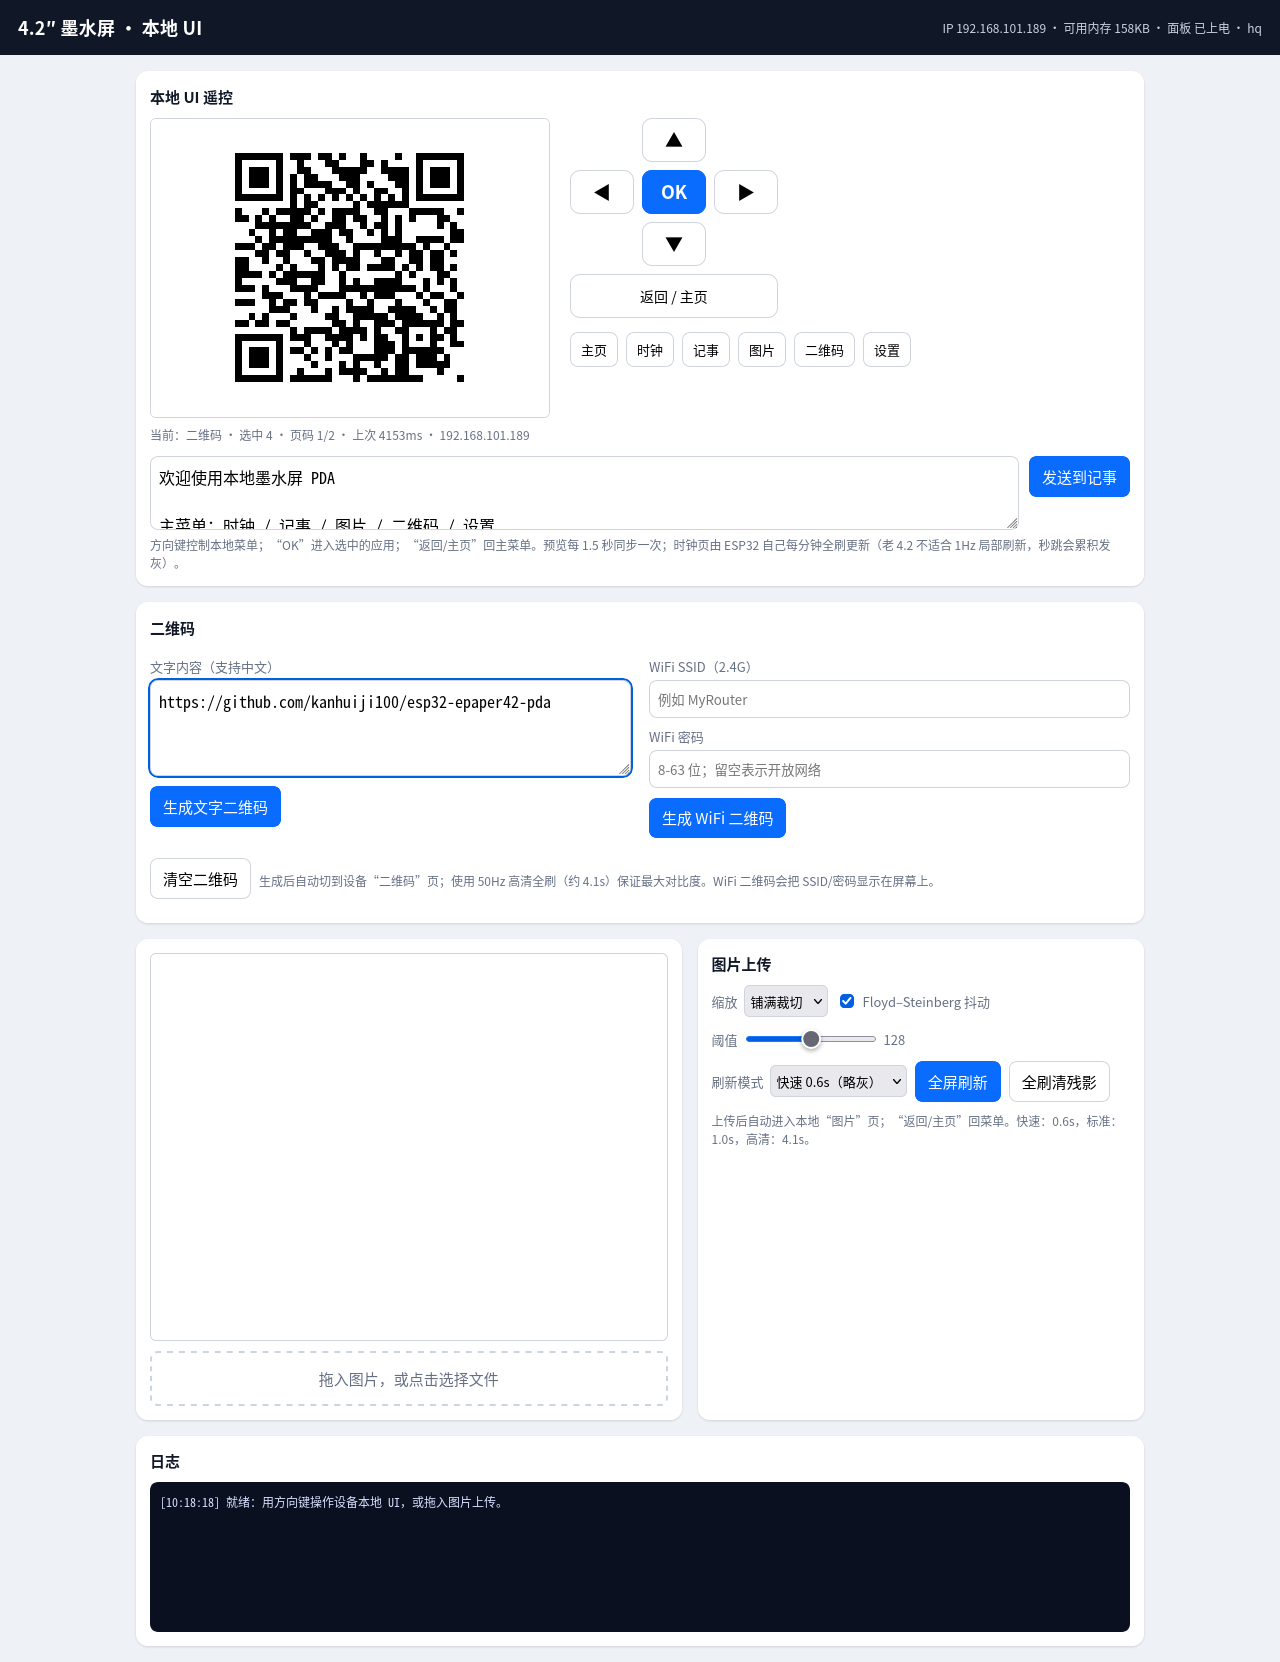
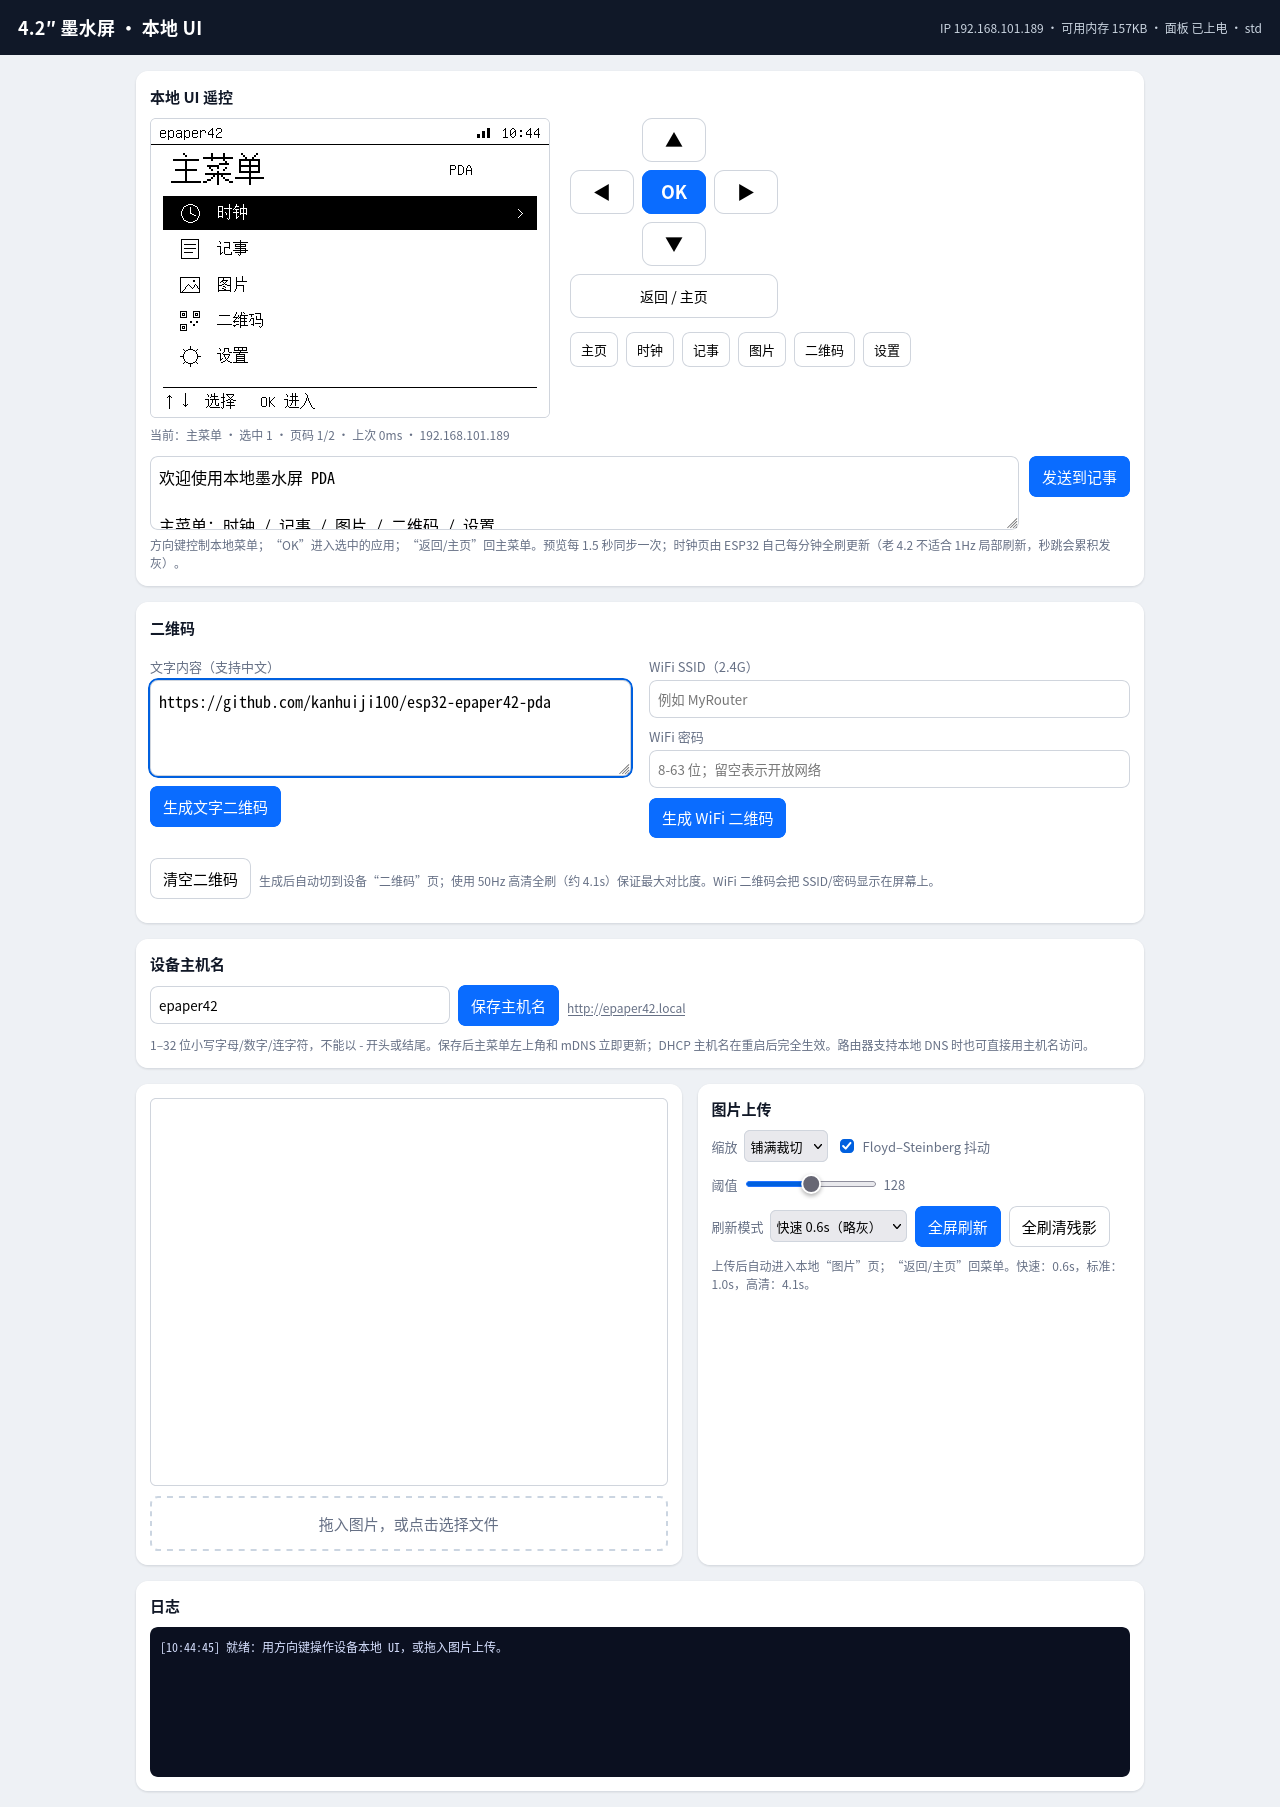
Add customizable hostname with mDNS and Home/Settings display

diff --git a/firmware/epaper42_web/webpage.h b/firmware/epaper42_web/webpage.h
@@ -31,7 +31,8 @@ main{max-width:1040px;margin:0 auto;padding:16px;display:grid;grid-template-colu
 .apps button{padding:7px 10px;font-size:13px}
 .note-row{display:grid;grid-template-columns:1fr auto;gap:10px;margin-top:12px;align-items:start}
 #noteText{width:100%;height:74px;padding:8px;border:1px solid var(--line);border-radius:8px;font:14px/1.5 inherit;resize:vertical}
-.qr{grid-column:1/-1}
+.qr,.host{grid-column:1/-1}
+.host input{padding:8px;border:1px solid var(--line);border-radius:8px;font:14px/1.5 inherit;min-width:220px}
 .qr-grid{display:grid;grid-template-columns:1fr 1fr;gap:18px}
 .qr-grid label{display:block;margin:8px 0 4px}
 .qr-grid textarea,.qr-grid input{width:100%;padding:8px;border:1px solid var(--line);border-radius:8px;font:14px/1.5 inherit}
@@ -115,6 +116,16 @@ button:disabled{opacity:.45;cursor:default}
     </div>
   </section>
 
+  <section class="card host">
+    <h2>设备主机名</h2>
+    <div class="row">
+      <input id="hostName" maxlength="32" placeholder="epaper42">
+      <button id="btnHost" class="primary">保存主机名</button>
+      <a id="hostLink" class="hint" href="http://epaper42.local" target="_blank" rel="noopener">http://epaper42.local</a>
+    </div>
+    <p class="hint">1–32 位小写字母/数字/连字符，不能以 - 开头或结尾。保存后主菜单左上角和 mDNS 立即更新；DHCP 主机名在重启后完全生效。路由器支持本地 DNS 时也可直接用主机名访问。</p>
+  </section>
+
   <section class="card">
     <canvas id="preview" width="400" height="300"></canvas>
     <div id="drop">拖入图片，或点击选择文件<input id="file" type="file" accept="image/*" hidden></div>
@@ -190,7 +201,7 @@ const remote=$('remoteScreen'), rctx=remote.getContext('2d');
 let remoteBusy=false, remoteSeq=0;
 function setRemoteBusy(b){
   remoteBusy=b;
-  document.querySelectorAll('.pad button,.apps button,#btnQrText,#btnQrWifi,#btnQrClear').forEach(x=>{x.disabled=b;});
+  document.querySelectorAll('.pad button,.apps button,#btnQrText,#btnQrWifi,#btnQrClear,#btnHost').forEach(x=>{x.disabled=b;});
 }
 function drawRemote(buf){
   const out=rctx.createImageData(W,H);
@@ -276,6 +287,34 @@ $('btnQrWifi').addEventListener('click',()=>{
   qrAction('/api/qr?type=wifi&ssid='+encodeURIComponent(s)+'&pass='+encodeURIComponent(p),null,'生成 WiFi 二维码');
 });
 $('btnQrClear').addEventListener('click',()=>qrAction('/api/qr?type=clear',null,'清空二维码'));
+
+function updateHostUi(h){
+  $('hostName').value=h;
+  $('hostLink').textContent='http://'+h+'.local';
+  $('hostLink').href='http://'+h+'.local';
+}
+async function loadHost(){
+  try{
+    const r=await fetch('/api/host',{cache:'no-store'});
+    const j=await r.json();
+    if(j.host) updateHostUi(j.host);
+  }catch(e){}
+}
+$('btnHost').addEventListener('click',async()=>{
+  if(remoteBusy) return;
+  const name=$('hostName').value.trim().toLowerCase();
+  if(!/^[a-z0-9](?:[a-z0-9-]{0,30}[a-z0-9])?$/.test(name)){
+    log('主机名格式不对：1–32 位 a-z/0-9/-，首尾不能是 -','warn'); return;
+  }
+  setRemoteBusy(true);
+  try{
+    const j=await api('/api/host?name='+encodeURIComponent(name));
+    updateHostUi(j.host);
+    log('主机名已保存：'+j.host+' · '+j.mdns,'ok');
+    await refreshRemote(true);
+  }catch(e){ log('主机名保存失败：'+e.message,'err'); }
+  finally{ setRemoteBusy(false); }
+});
 
 async function loadNote(){
   try{
@@ -407,6 +446,7 @@ async function poll(){
 log('就绪：用方向键操作设备本地 UI，或拖入图片上传。');
 refreshRemote(true);
 loadNote();
+loadHost();
 setInterval(()=>refreshRemote(false),1500);
 poll();
 </script>

diff --git a/firmware/epaper42_web/ui_impl.h b/firmware/epaper42_web/ui_impl.h
@@ -23,6 +23,7 @@ App app = App::HOME;
 int menuSel = 0;
 int notePage = 0;
 String note;
+String hostLabel = "epaper42";
 bool hasImage = false;
 uint8_t imageFb[IMGSZ];
 String qrPayload, qrType;
@@ -315,7 +316,7 @@ const char* MENU[] = {"时钟", "记事", "图片", "二维码", "设置"};
 
 void drawHome() {
   fillRect(0, 0, W, H, PAPER);
-  drawStatus("PDA");
+  drawStatus(hostLabel.c_str());
   drawText(20, 34, "主菜单", 2, INK);
   drawText(300, 42, "PDA", 1, INK);
   const int top = 78, ih = 36;
@@ -403,6 +404,7 @@ void drawSettingsApp() {
   line(String("WiFi  ") + (WiFi.status() == WL_CONNECTED ? WiFi.SSID() : String("未连接")));
   line(String("IP    ") + WiFi.localIP().toString());
   line(String("RSSI  ") + String(WiFi.RSSI()) + " dBm");
+  line(String("HOST  ") + hostLabel);
   line(String("HEAP  ") + String(ESP.getFreeHeap() / 1024) + " KB");
   line(String("MODE  ") + panel42::modeName());
   line(String("FLASH ") + String(ESP.getFlashChipSize() / 1024 / 1024) + " MB");
@@ -565,6 +567,7 @@ String stateJson() {
   s += ",\"qr\":"; s += (qrValid ? 1 : 0);
   s += ",\"qrType\":\""; s += qrType; s += "\"";
   s += ",\"qrModules\":"; s += qrSize;
+  s += ",\"host\":\""; s += hostLabel; s += "\"";
   s += ",\"ms\":"; s += (unsigned long)lastT.total;
   s += ",\"refresh\":"; s += (unsigned long)lastT.refresh;
   s += ",\"ip\":\""; s += WiFi.localIP().toString(); s += "\"";
@@ -642,6 +645,14 @@ panel42::Timings setNote(const String& text) {
   notePage = 0;
   renderAndCommit(true);
   return lastT;
+}
+
+void setHostnameLabel(const String& name, bool redraw) {
+  if (name.length() == 0) return;
+  hostLabel = name;
+  if (redraw && (app == App::HOME || app == App::SETTINGS) && panel42::isPowered()) {
+    renderAndCommit(true);
+  }
 }
 
 void setImage(const uint8_t* img, bool alreadyOnScreen) {

diff --git a/firmware/epaper42_web/serial_console.h b/firmware/epaper42_web/serial_console.h
@@ -130,6 +130,8 @@ static void printHelp() {
   Serial.println("  qr <text>              generate a text QR (UTF-8) and show it");
   Serial.println("  qr wifi <ssid> [pass]  Wi-Fi QR; omit pass for hidden prompt");
   Serial.println("  qr clear               clear QR / show placeholder");
+  Serial.println("  host                   show hostname / mDNS URL");
+  Serial.println("  host <name>            set hostname (a-z 0-9 -, 1-32 chars)");
   Serial.println("  wifi                   current Wi-Fi state");
   Serial.println("  wifi scan              scan visible networks");
   Serial.println("  wifi set               interactive provisioning (password hidden)");
@@ -280,6 +282,23 @@ static void handleLine(const String& raw) {
     lastActivity = millis();
     Serial.println("note saved");
     printStatus();
+    return;
+  }
+
+  if (cmd == "host" || cmd == "hostname") {
+    if (argc == 1) {
+      Serial.printf("host: %s  http://%s.local\n", gHostname.c_str(), gHostname.c_str());
+      return;
+    }
+    String name = args[1];
+    if (name == "set" && argc >= 3) name = args[2];
+    if (hostnameSet(name)) {
+      lastActivity = millis();
+      Serial.printf("host: %s  http://%s.local\n", gHostname.c_str(), gHostname.c_str());
+      Serial.println("DHCP hostname fully applies after reboot; mDNS is immediate.");
+    } else {
+      Serial.println("host: invalid; use 1-32 chars a-z 0-9 -, no leading/trailing -");
+    }
     return;
   }
 

diff --git a/firmware/epaper42_web/ui.h b/firmware/epaper42_web/ui.h
@@ -16,6 +16,7 @@ bool setQr(const String& payload, const String& type);
 bool setWifiQr(const String& ssid, const String& pass);
 void clearQr();
 String qrSummary();
+void setHostnameLabel(const String& name, bool redraw);
 void onClear();
 
 const uint8_t* screen();

diff --git a/docs/API.md b/docs/API.md
@@ -6,7 +6,7 @@ console at `/` and a small JSON/binary API. All responses include
 request.
 
 Base URL: `http://<device-ip>/` (the serial log prints the DHCP IP; mDNS is
-`epaper42.local` when available).
+`http://<hostname>.local`, default `epaper42.local`).
 
 For USB serial provisioning and console commands, see
 [SERIAL_CONSOLE.md](SERIAL_CONSOLE.md).
@@ -25,7 +25,9 @@ Partial images use `(w / 8) × h` bytes; `x` and `w` must be multiples of 8.
 | Method | Path | Body | Result |
 |---|---|---|---|
 | GET | `/` | — | remote console HTML |
-| GET | `/api/status` | — | device status JSON |
+| GET | `/api/status` | — | device status JSON (includes hostname) |
+| GET | `/api/host` | — | current hostname + mDNS URL |
+| POST | `/api/host?name=...` | — | set hostname; restarts mDNS, returns host/URL |
 | GET | `/api/screen` | — | current framebuffer, 15,000 bytes |
 | GET | `/api/ui` | — | local-UI state JSON |
 | GET | `/api/qr` | — | QR state (same fields as `/api/ui`) |
@@ -45,10 +47,32 @@ Partial images use `(w / 8) × h` bytes; `x` and `w` must be multiples of 8.
 ### `GET /api/status`
 
 ```json
-{"ok":1,"ip":"192.168.1.50","heap":180000,"powered":1,"mode":"part"}
+{"ok":1,"ip":"192.168.1.50","host":"epaper42","heap":180000,"powered":1,"mode":"part"}
 ```
 
 `mode` is `none|std|hq|part`.
+
+### Hostname
+
+```bash
+# read
+curl http://<ip>/api/host
+
+# set (lowercased; 1-32 chars a-z/0-9/-, no leading/trailing -)
+curl -X POST 'http://<ip>/api/host?name=pda42'
+```
+
+Response:
+
+```json
+{"ok":1,"host":"pda42","mdns":"http://pda42.local"}
+```
+
+The mDNS responder is restarted immediately, so `http://pda42.local` works as
+soon as the request returns. `WiFi.setHostname()` is also updated; the DHCP
+hostname is fully applied after the next reboot/reconnect. The Home status bar
+and Settings screen are redrawn when they are visible. Invalid names return HTTP
+400 and leave the current hostname unchanged.
 
 ### `GET /api/ui`
 
@@ -60,6 +84,10 @@ Partial images use `(w / 8) × h` bytes; `x` and `w` must be multiples of 8.
   "page": 0,
   "pages": 2,
   "hasImage": 0,
+  "qr": 0,
+  "qrType": "",
+  "qrModules": 0,
+  "host": "epaper42",
   "ms": 984,
   "refresh": 959,
   "ip": "192.168.1.50",

diff --git a/docs/LOCAL_UI.md b/docs/LOCAL_UI.md
@@ -19,6 +19,7 @@ rendered in the browser (the browser only mirrors the device framebuffer).
 ### Home
 
 - Five rows: **时钟 / 记事 / 图片 / 二维码 / 设置**.
+- The status-bar title shows the **device hostname** (default `epaper42`).
 - Icon + Chinese label + inverted selection bar.
 - `↑↓` move, `OK` enter, `Back/Home` return.
 - Menu movement uses a full standard refresh (~1 s) to keep the selection bar and
@@ -64,7 +65,8 @@ rendered in the browser (the browser only mirrors the device framebuffer).
 
 ### Settings
 
-- Wi-Fi SSID, IP, RSSI, free heap, current panel mode, flash size, uptime, web URL.
+- Wi-Fi SSID, IP, RSSI, **hostname**, free heap, current panel mode, flash size,
+  uptime, web URL.
 - Status bar minute updates use a small partial window; a full refresh happens
   every 15 minutes.
 
@@ -92,6 +94,7 @@ python3 tools/gen_font.py
 - `POST /api/key?k=...`, `POST /api/app?name=...`.
 - Note textarea: `GET/POST /api/note`.
 - QR card: `POST /api/qr` (text/Wi-Fi/clear); generation takes ~4.1 s.
+- Hostname card: `GET/POST /api/host`; saves NVS, restarts mDNS and redraws Home.
 - Preview polls every 1.5 s; key/app actions refresh immediately.
 - Buttons are disabled while a refresh is in flight (the server is single
   threaded and a refresh takes 0.58–0.98 s).
@@ -101,7 +104,7 @@ python3 tools/gen_font.py
 - `fb` + `imageFb` + driver `shadow` + HTTP body buffer ≈ 60 KB.
 - QR encode buffers (`qrBuf`/`qrTemp`/`qrCand`) ≈ 12 KB static.
 - Font bitmaps ≈ 270 KB flash.
-- App size ≈ 1.12 MB of the 1.31 MB partition (85%).
+- App size ≈ 1.13 MB of the 1.31 MB partition (86%).
 - NVS note; no LittleFS image/QR persistence yet.
 
 ## Extending

diff --git a/docs/SERIAL_CONSOLE.md b/docs/SERIAL_CONSOLE.md
@@ -128,6 +128,26 @@ zone. It stays static (no minute partial updates) until you generate another cod
 or leave the screen. QR content is RAM-only; `qr clear` or reboot drops it. See
 [QRCODE.md](QRCODE.md) for payload details and limits.
 
+## Hostname
+
+| Command | Result |
+|---|---|
+| `host` / `hostname` | show current hostname and `http://<name>.local` |
+| `host <name>` | set hostname (lowercased; 1–32 chars `a-z 0-9 -`) |
+| `host set <name>` | same, explicit form |
+
+```text
+> host pda42
+mDNS: http://pda42.local
+host: pda42  http://pda42.local
+DHCP hostname fully applies after reboot; mDNS is immediate.
+```
+
+The Home status bar and Settings screen update immediately. mDNS is restarted, so
+`http://pda42.local` works right away on mDNS-capable clients; the DHCP hostname
+used by router local DNS is applied after the next boot/reconnect. The name is
+stored in NVS namespace `net`, key `host`.
+
 ## Panel / system
 
 | Command | Result |

diff --git a/docs/CHANGELOG.md b/docs/CHANGELOG.md
@@ -1,5 +1,15 @@
 # Changelog
 
+## v0.4.0 — 2026-10-30
+
+- Custom device hostname, default `epaper42`; stored in NVS namespace `net`.
+- Home status bar and Settings show the hostname; web card and serial `host`
+  command update it.
+- `GET/POST /api/host`; mDNS restarts immediately so `http://<name>.local` works;
+  DHCP hostname applies after reboot.
+- Validation: 1–32 chars `a-z 0-9 -`, no leading/trailing hyphen.
+- Docs and screenshots updated; firmware ~86%.
+
 ## v0.3.0 — 2026-10-30
 
 - New **QR** screen: text QR and Wi-Fi join QR (`WIFI:T:WPA;S:...;P:...;;`).
